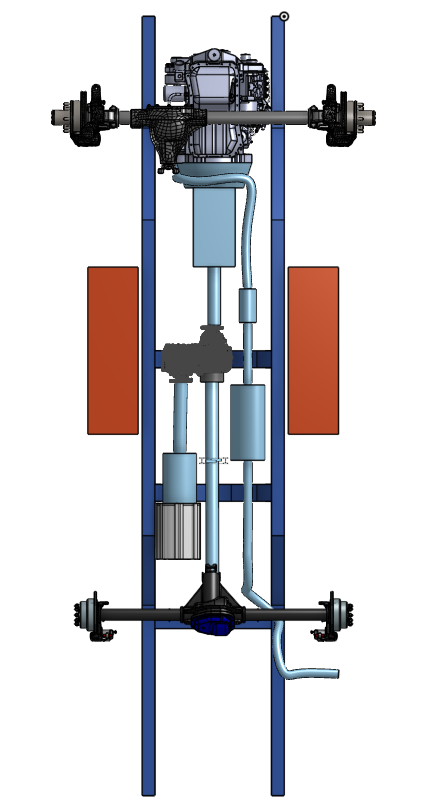
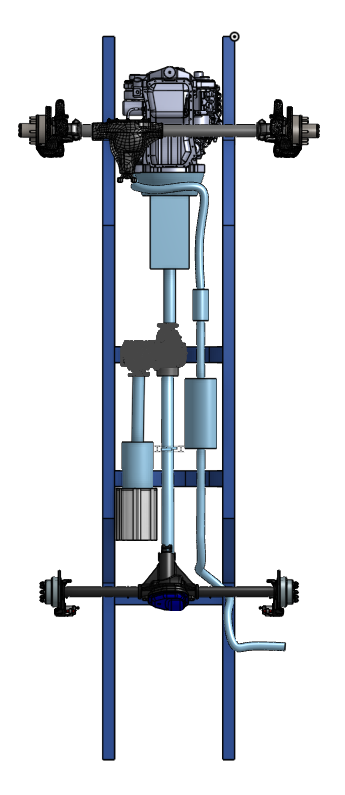
Update fuel tank section to agree with high voltage module design and change Perkins 4.236 references to Cummins 4BT

Changed region(s): [[0.029, 0.0, 0.9275, 0.9962]]

diff --git a/docs/system_design/powertrain_module_design.md b/docs/system_design/powertrain_module_design.md
@@ -93,7 +93,7 @@ As mentioned in the [Vehicle Control](vehicle_control_module_design.md#transmiss
 
 The [NV4500](https://www.novak-adapt.com/knowledge/transmissions/manual/nv4500.html) is a 5 speed manual transmission used in GM and Dodge trucks in the 1990s and 2000s.
 It is available with a wide or narrow gear ratio spread.
-The narrow gear ratio spread will work better with the low RPM of the Perkins 4.236 so that each upshift doesn't require revving to redline only to lug it in the next gear.
+The narrow gear ratio spread will work better with the low RPM of the ICE so that each upshift doesn't require revving to redline only to lug it in the next gear.
 The ratios for the narrow gears are as follows, along with the percent decrease in ratio from the previous gear.
 
 | Gear | Ratio | Percent Decrease from Previous Gear
@@ -135,7 +135,7 @@ The AX-15 is rated for an input torque of 300 ft-lbs.
 
 #### Decision Criteria
 
-All of the transmissions are have overdrive top gears and are able to withstand the torque of the Perkins 4.236.
+All of the transmissions are have overdrive top gears and are able to withstand the torque of a diesel engine.
 This should result in excellent highway fuel economy since the engine RPMs can be kept below 2000 for fuel efficiency.
 
 The AX-15 is a promising option due to the much lighter weight than the NV4500. The main concern is the taller first gear compared to the NV4500. The high weight of a Travelall with the relatively low torque of the Perkins 4.236 risks not being able to climb the steeper hills of San Francisco if the battery is dead.
@@ -165,7 +165,7 @@ With the NV4500 it would be possible to make it up Bradford St. with all availab
 
 ### Automatic
 
-All automatic transmissions would be equipped with a locking low stall torque converter aiming to put the stall speed around 1600 rpm which at the peak of the Perkins 4.236 torque curve.
+All automatic transmissions would be equipped with a locking low stall torque converter aiming to put the stall speed around 1600 rpm which is near the peak torque of most diesel engines.
 Torque converters allow slip between the transmission and engine which is especially useful when accelerating from a stop.
 Torque converters can provide additional torque multiplication when the input and output speeds of the torque converter differ, increasing to a roughly 2x torque multiplication at the stall point.
 This gives vehicles with automatic transmissions the ability to accelerate quickly from a stop or start move a heavy vehicle up a hill without an extremely low first gear ratio at the expense of efficiency since energy is wasted when the torque converter is slipping.
@@ -449,17 +449,11 @@ Aftermarket transfer cases would also work but are much more expensive than a us
 
 The IH Travelall came from the factory with two fuel tank configurations. Some had a single large fuel tank between the frame rails behind the rear axle.
 The other option was two smaller "saddle" fuel tanks mounted on the outside of the frame rail near the center of the vehicle.
-Saddle tanks are better option for this project for two reasons. 
-First, between the frame rails is a convenient location for a battery pack, keeping it close to the electric motor and more protected in the event of a collision.
-Second, saddle tanks makes it easier in the future to run vegetable oil since there are separate tanks for oil and diesel.
-
-Using two fuel tanks requires a mechanism for choosing which tank to draw from, or to transfer fuel from one tank to the other.
-6 port fuel valves (3 supply lines and 3 return lines) are fairly common and often have the ability to switch the signal from two fuel level senders along with the fuel supply so that a single fuel guage can be used to display the fuel level of the currently selected tank.
-[Pollak](https://www.pollakaftermarket.com/en/products/fuel-selector-valves/fuel-tank-selector-valves/3-port-and-6-port-fuel-valves) makes a fuel selector valve which is often recommended as a replacement for out of production or expensive OEM fuel selector valves.
+The placement of the battery conflicts with the saddle tanks meaning that a rear gas tank is required. 
 
 <figure markdown="span">
-  ![Saddle Tanks](images/saddle_tanks.png)
-  <figcaption>Saddle Tanks</figcaption>
+  ![Rear Gas Tank](images/rear_gas_tank.png)
+  <figcaption>Rear Gas Tank</figcaption>
 </figure>
 
 ## Exhaust
@@ -467,7 +461,7 @@ Using two fuel tanks requires a mechanism for choosing which tank to draw from, 
 The most convenient path to route the exhaust is along the inside of the driver's side frame rail.
 To avoid letting exhaust fumes in to open windows the exhaust will be routed over the rear axle so that the tailpipe is behind all doors and retractable windows.
 The exhaust pipe will be directed to the outside of the frame once it clears the rear axle to give as much clearance to the battery as possible. In addition, heat shielding will be installed between the exhaust and the battery.
-The Perkins 4.236 engine exhaust manifold is on the passenger side, so a crossover pipe will be required to direct the exhaust to the drivers side of the vehicle.
+The Cummins 4BT engine exhaust manifold is on the passenger side, so a crossover pipe will be required to direct the exhaust to the drivers side of the vehicle.
 The crossover pipe will be located near the bellhousing between the engine and transmission.
 
 <figure markdown="span">
